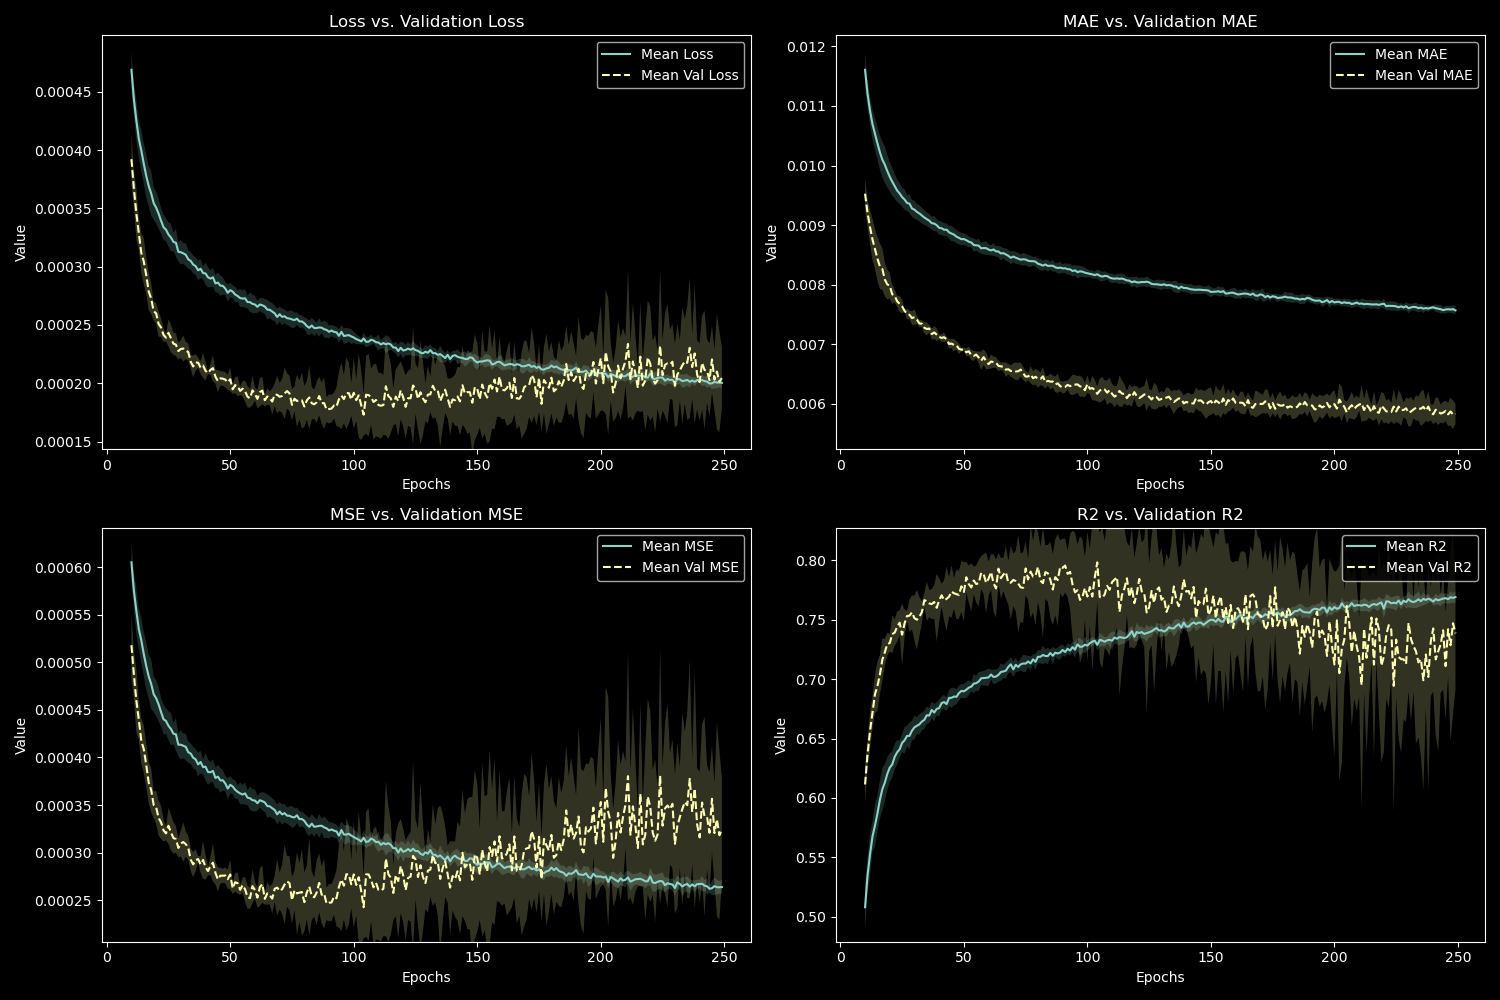
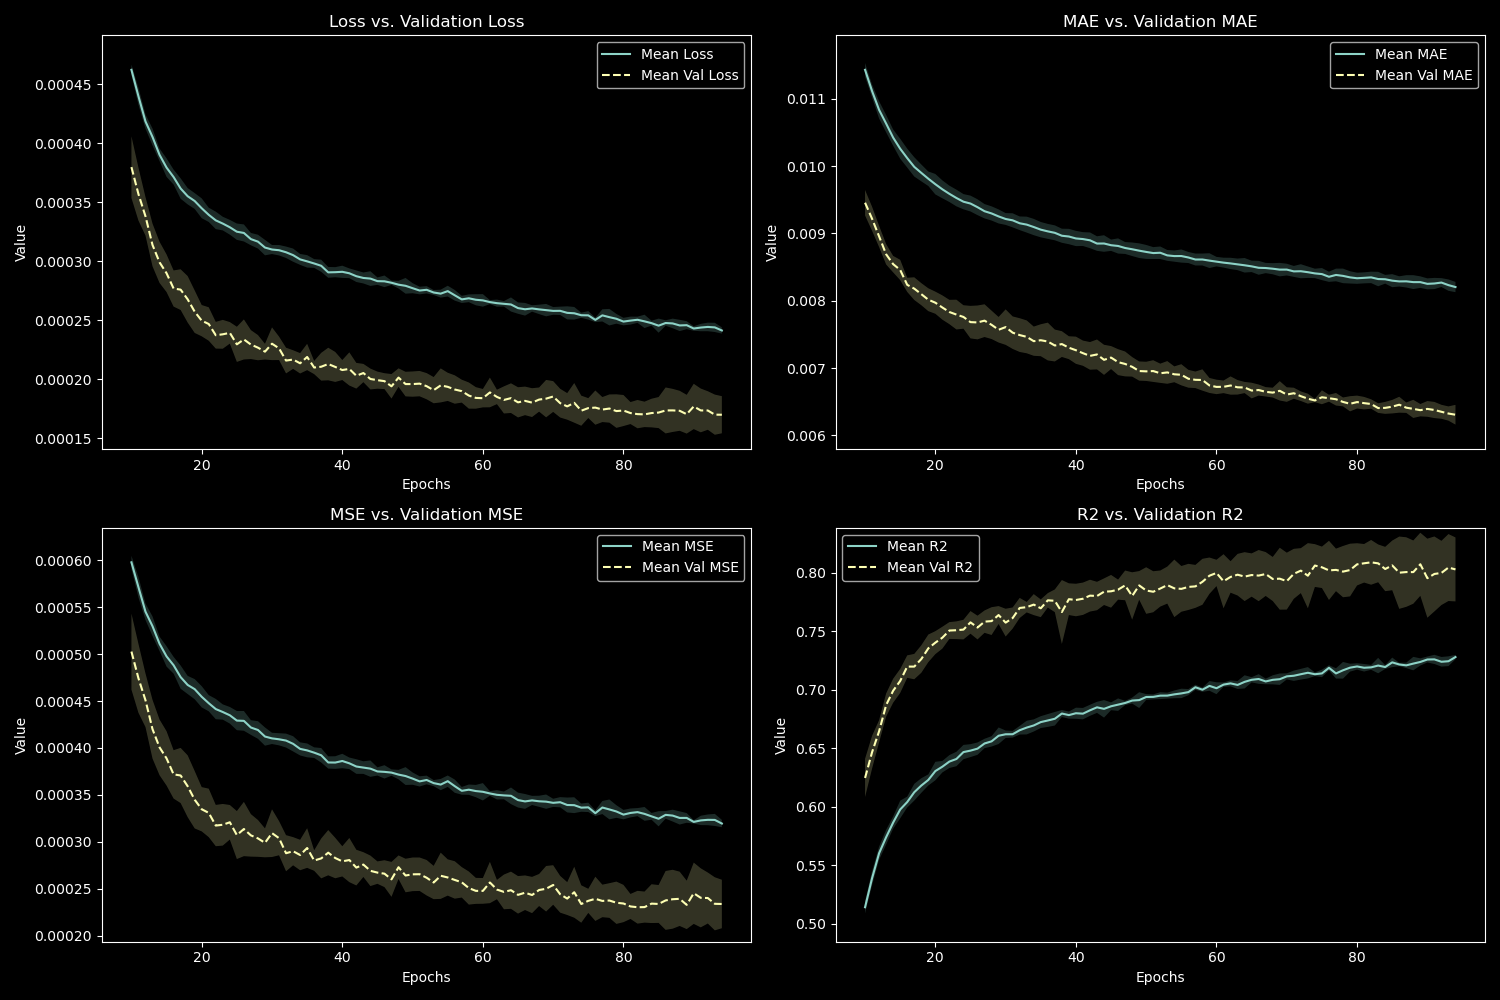
ANN run 32x6

diff --git a/training/ANN.py b/training/ANN.py
@@ -42,7 +42,7 @@ import datetime
 import numpy as np
 
 from sklearn.model_selection import KFold
-from tensorflow.keras.callbacks import TensorBoard
+from tensorflow.keras.callbacks import TensorBoard, EarlyStopping
 
 from modules.network import ANN_model
 from logging_config import logging_conf
@@ -60,9 +60,9 @@ data = 'models_100k'
 # Parameters for k-fold validation
 k = 5  # Number of folds
 seed = 42  # Random seed for reproducibility
-neurons = 128
-layers = 8
-epochs = 150
+neurons = 32
+layers = 6
+epochs = 250
 
 # Initialize the logging process with timestamp
 t_start = datetime.datetime.now()
@@ -86,6 +86,9 @@ kf = KFold(n_splits=k, shuffle=True, random_state=seed)
 histories = {'mean_absolute_error':[], 'mean_squared_error':[], 'r_squared':[],  
              'loss':[], 'val_mean_absolute_error':[], 'val_mean_squared_error': [], 
              'val_r_squared':[], 'val_loss':[]}
+
+# Early Stopping Callback configuration
+early_stopping = EarlyStopping(monitor='val_loss', patience=20, verbose=1, restore_best_weights=True)
 
 # Loop over each fold
 for fold, (train_index, val_index) in enumerate(kf.split(X)):
@@ -112,7 +115,7 @@ for fold, (train_index, val_index) in enumerate(kf.split(X)):
         X_train, y_train,
         validation_data=(X_val, y_val), 
         epochs=epochs, batch_size=50,
-        callbacks=[tensorboard_callback],
+        callbacks=[tensorboard_callback, early_stopping],
         verbose=1
     )
 

diff --git a/training/plot_history.py b/training/plot_history.py
@@ -58,8 +58,8 @@ path_to_plots.mkdir(parents=True, exist_ok=True)
 logger = logging_conf(path_to_logs, "plot_history.log")
 logger.debug("Script started.")
 
-model = 'GRU'
-model_name = '256x6'
+model = 'ANN'
+model_name = '64x6'
 model_dir = path_to_results / model
 logger.debug(f"Models: {model_dir}")
 
@@ -72,7 +72,7 @@ if history_filename.exists():
 else:
     logger.debug('No history')
 
-skip = 0
+skip = 10
 history_df = pd.DataFrame(existing_history)
 # Create a figure with subplots arranged in a 2x2 grid
 fig, axs = plt.subplots(2, 2, figsize=(15, 10))

diff --git a/training/results.py b/training/results.py
@@ -37,8 +37,8 @@ from modules.variables import (
 
 # Define data and smoothing points
 data = 'models_100k'
-NN = 'GRU'
-arch = '256x4'
+NN = 'ANN'
+arch = '128x8'
 n_points = 0
 
 # Set up paths for logs and models
